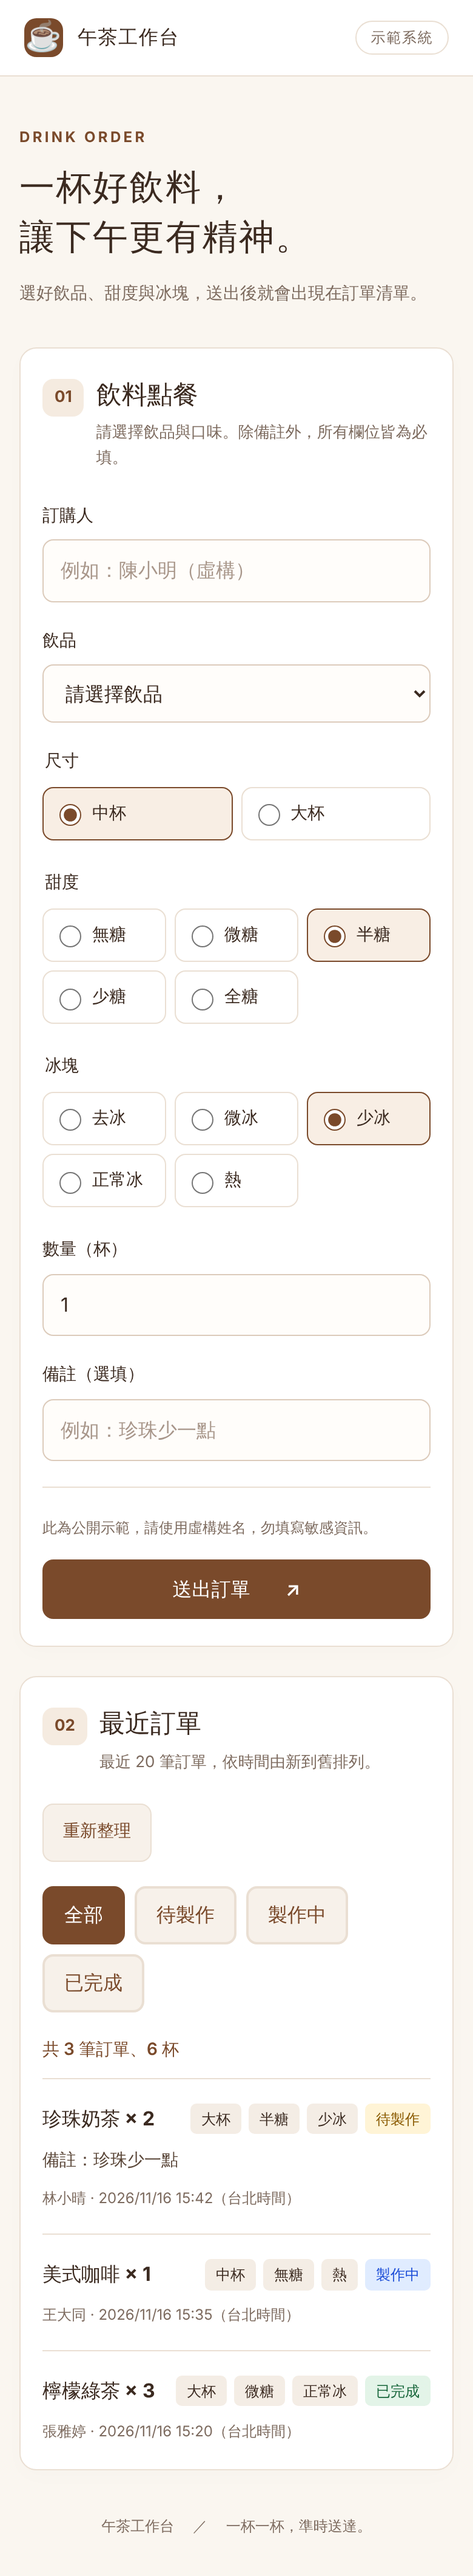
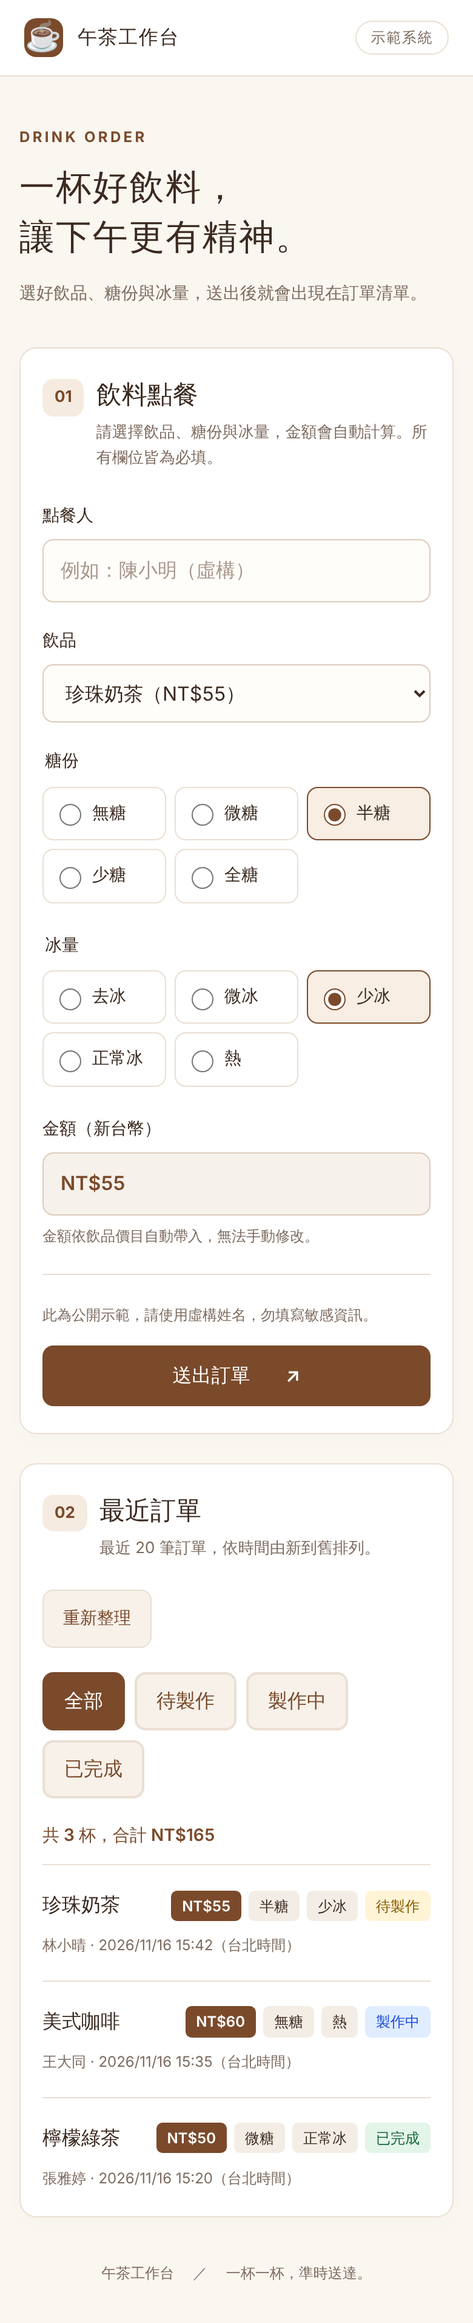
點餐表單改為點餐人、飲品、糖份、冰量、金額五欄
- 移除尺寸、數量、備註；金額依飲品價目自動帶入且不可修改
- 清單顯示每杯金額，並合計目前篩選的金額
- drink_orders 改為五個欄位，CHECK 確認飲品與金額相符
- 更新回歸測試、需求筆記、說明與預覽截圖

Claude-Session: https://claude.ai/code/session_01PMThZ8T3LDcZiV1NZyRfh1

diff --git a/index.html b/index.html
@@ -19,15 +19,14 @@
   <header class="topbar"><div class="brand"><span class="brand-icon" aria-hidden="true">☕</span>午茶工作台<span class="demo">示範系統</span></div></header>
   <main>
     <div class="pwa-tools"><button id="install-button" class="secondary" type="button" hidden>安裝點餐系統</button><p id="connection-message" class="message" role="status" hidden></p></div>
-    <div class="intro"><p class="eyebrow">DRINK ORDER</p><h1>一杯好飲料，<br>讓下午更有精神。</h1><p>選好飲品、甜度與冰塊，送出後就會出現在訂單清單。</p></div>
+    <div class="intro"><p class="eyebrow">DRINK ORDER</p><h1>一杯好飲料，<br>讓下午更有精神。</h1><p>選好飲品、糖份與冰量，送出後就會出現在訂單清單。</p></div>
     <section class="panel" aria-labelledby="form-title">
-      <div class="section-heading"><span class="step">01</span><div><h2 id="form-title">飲料點餐</h2><p>請選擇飲品與口味。除備註外，所有欄位皆為必填。</p></div></div>
+      <div class="section-heading"><span class="step">01</span><div><h2 id="form-title">飲料點餐</h2><p>請選擇飲品、糖份與冰量，金額會自動計算。所有欄位皆為必填。</p></div></div>
       <form id="order-form">
-        <div class="grid"><label>訂購人<input name="customer_name" autocomplete="name" required maxlength="100" placeholder="例如：陳小明（虛構）"></label><label>飲品<select name="drink" required><option value="" disabled selected>請選擇飲品</option><option>紅茶</option><option>綠茶</option><option>烏龍茶</option><option>奶茶</option><option>珍珠奶茶</option><option>檸檬綠茶</option><option>美式咖啡</option><option>拿鐵</option></select></label></div>
-        <fieldset><legend>尺寸</legend><div class="choice-options two"><label><input type="radio" name="size" value="中杯" required checked><span>中杯</span></label><label><input type="radio" name="size" value="大杯"><span>大杯</span></label></div></fieldset>
-        <fieldset><legend>甜度</legend><div class="choice-options five"><label><input type="radio" name="sugar" value="無糖" required><span>無糖</span></label><label><input type="radio" name="sugar" value="微糖"><span>微糖</span></label><label><input type="radio" name="sugar" value="半糖" checked><span>半糖</span></label><label><input type="radio" name="sugar" value="少糖"><span>少糖</span></label><label><input type="radio" name="sugar" value="全糖"><span>全糖</span></label></div></fieldset>
-        <fieldset><legend>冰塊</legend><div class="choice-options five"><label><input type="radio" name="ice" value="去冰" required><span>去冰</span></label><label><input type="radio" name="ice" value="微冰"><span>微冰</span></label><label><input type="radio" name="ice" value="少冰" checked><span>少冰</span></label><label><input type="radio" name="ice" value="正常冰"><span>正常冰</span></label><label><input type="radio" name="ice" value="熱"><span>熱</span></label></div></fieldset>
-        <div class="grid"><label>數量（杯）<input name="quantity" type="number" inputmode="numeric" required min="1" max="20" step="1" value="1"></label><label>備註（選填）<input name="note" maxlength="200" placeholder="例如：珍珠少一點"></label></div>
+        <div class="grid"><label>點餐人<input name="customer_name" autocomplete="name" required maxlength="100" placeholder="例如：陳小明（虛構）"></label><label>飲品<select name="drink" required><option value="" disabled selected>請選擇飲品</option><option value="紅茶">紅茶（NT$30）</option><option value="綠茶">綠茶（NT$30）</option><option value="烏龍茶">烏龍茶（NT$35）</option><option value="奶茶">奶茶（NT$45）</option><option value="珍珠奶茶">珍珠奶茶（NT$55）</option><option value="檸檬綠茶">檸檬綠茶（NT$50）</option><option value="美式咖啡">美式咖啡（NT$60）</option><option value="拿鐵">拿鐵（NT$70）</option></select></label></div>
+        <fieldset><legend>糖份</legend><div class="choice-options five"><label><input type="radio" name="sugar" value="無糖" required><span>無糖</span></label><label><input type="radio" name="sugar" value="微糖"><span>微糖</span></label><label><input type="radio" name="sugar" value="半糖" checked><span>半糖</span></label><label><input type="radio" name="sugar" value="少糖"><span>少糖</span></label><label><input type="radio" name="sugar" value="全糖"><span>全糖</span></label></div></fieldset>
+        <fieldset><legend>冰量</legend><div class="choice-options five"><label><input type="radio" name="ice" value="去冰" required><span>去冰</span></label><label><input type="radio" name="ice" value="微冰"><span>微冰</span></label><label><input type="radio" name="ice" value="少冰" checked><span>少冰</span></label><label><input type="radio" name="ice" value="正常冰"><span>正常冰</span></label><label><input type="radio" name="ice" value="熱"><span>熱</span></label></div></fieldset>
+        <label>金額（新台幣）<input name="amount" readonly tabindex="-1" placeholder="選擇飲品後自動帶入" aria-describedby="amount-hint"></label><p id="amount-hint" class="hint">金額依飲品價目自動帶入，無法手動修改。</p>
         <div class="form-footer"><p>此為公開示範，請使用虛構姓名，勿填寫敏感資訊。</p><button id="submit-button" type="submit">送出訂單 <span aria-hidden="true">↗</span></button></div>
         <p id="form-message" class="message" role="status" aria-live="polite" hidden></p>
       </form>

diff --git a/app.js b/app.js
@@ -9,6 +9,13 @@
   const list = document.querySelector('#order-list');
   const filterButtons = document.querySelectorAll('[data-status-filter]');
   const SUBMIT_LABEL = '送出訂單 ↗';
+  // 價目須與 supabase/schema.sql 的 drink_orders_price_check 一致（虛構價格）。
+  const PRICES = Object.freeze({ 紅茶: 30, 綠茶: 30, 烏龍茶: 35, 奶茶: 45, 珍珠奶茶: 55, 檸檬綠茶: 50, 美式咖啡: 60, 拿鐵: 70 });
+  const drinkSelect = form.elements.drink;
+  const amountInput = form.elements.amount;
+  const money = value => `NT$${Number(value).toLocaleString('zh-TW')}`;
+  const updateAmount = () => { amountInput.value = PRICES[drinkSelect.value] ? money(PRICES[drinkSelect.value]) : ''; };
+  drinkSelect.addEventListener('change', updateAmount);
   let orders = [];
   let selectedStatus = '全部';
   let hasLoaded = false;
@@ -41,19 +48,17 @@
     const cards = visibleOrders.map(order => {
       const card = element('li', 'order-card', '');
       const top = element('div', 'order-top', '');
-      top.append(element('h3', '', `${order.drink} × ${order.quantity}`),
-        element('span', 'badge', order.size),
+      top.append(element('h3', '', order.drink),
+        element('span', 'badge amount', money(order.amount)),
         element('span', 'badge', order.sugar),
         element('span', 'badge', order.ice),
         element('span', `badge status ${statusClass(order.status)}`, order.status));
-      card.append(top);
-      if (order.note) card.append(element('p', 'order-note', `備註：${order.note}`));
-      card.append(element('div', 'order-meta', `${order.customer_name} · ${formatTime(order.created_at)}`));
+      card.append(top, element('div', 'order-meta', `${order.customer_name} · ${formatTime(order.created_at)}`));
       return card;
     });
     list.replaceChildren(...cards);
-    const cups = visibleOrders.reduce((sum, order) => sum + (Number(order.quantity) || 0), 0);
-    cupTotal.textContent = `${selectedStatus === '全部' ? '' : `「${selectedStatus}」`}共 ${cards.length} 筆訂單、${cups} 杯`;
+    const total = visibleOrders.reduce((sum, order) => sum + (Number(order.amount) || 0), 0);
+    cupTotal.textContent = `${selectedStatus === '全部' ? '' : `「${selectedStatus}」`}共 ${cards.length} 杯，合計 ${money(total)}`;
     cupTotal.hidden = !cards.length;
     showMessage(listMessage, !navigator.onLine ? '目前離線，無法取得最新訂單。已顯示的紀錄僅保留於本次開啟的頁面。'
       : loading ? '正在載入訂單…'
@@ -82,7 +87,7 @@
     showMessage(listMessage, '正在載入訂單…');
     try {
       const { data, error } = await client.from('drink_orders')
-        .select('id,customer_name,drink,size,sugar,ice,quantity,note,status,created_at')
+        .select('id,customer_name,drink,sugar,ice,amount,status,created_at')
         .order('created_at', { ascending: false }).order('id', { ascending: false }).limit(20);
       if (error) throw error;
       orders = data || [];
@@ -106,20 +111,17 @@
     if (submitting || !client || !form.reportValidity()) return;
     const values = new FormData(form);
     const text = key => String(values.get(key) || '').trim();
-    const payload = Object.fromEntries(['customer_name', 'drink', 'size', 'sugar', 'ice']
+    const payload = Object.fromEntries(['customer_name', 'drink', 'sugar', 'ice']
       .map(key => [key, text(key)]));
     if (Object.values(payload).some(value => !value)) {
-      showMessage(formMessage, '請完整填寫必填欄位，內容不可只有空白。', 'error');
+      showMessage(formMessage, '請完整填寫所有欄位，內容不可只有空白。', 'error');
       return;
     }
-    const quantity = Number(text('quantity'));
-    if (!Number.isInteger(quantity) || quantity < 1 || quantity > 20) {
-      showMessage(formMessage, '數量須為 1 到 20 杯的整數。', 'error');
+    if (!PRICES[payload.drink]) {
+      showMessage(formMessage, '請從清單選擇飲品，才能計算金額。', 'error');
       return;
     }
-    payload.quantity = quantity;
-    const note = text('note');
-    if (note) payload.note = note;
+    payload.amount = PRICES[payload.drink];
     submitting = true;
     submitButton.disabled = true;
     submitButton.textContent = '正在送出…';
@@ -128,6 +130,7 @@
       const { error } = await client.from('drink_orders').insert(payload);
       if (error) throw error;
       form.reset();
+      updateAmount();
       showMessage(formMessage, '訂單已成功送出！飲料準備中，請留意清單狀態。', 'success');
       await loadOrders();
     } catch (error) {

diff --git a/style.css b/style.css
@@ -3,3 +3,4 @@
 .status-filters{display:flex;gap:8px;margin-bottom:20px;flex-wrap:wrap}.status-filters button{background:#f7f1ea;color:var(--green);border:2px solid var(--line);padding:8px 16px}.status-filters button[aria-pressed="true"]{background:var(--green);color:#fff;border-color:var(--green)}
 .pwa-tools:has(> :not([hidden])){margin-bottom:24px}.pwa-tools .message{margin:12px 0 0}
 .cup-total{font-size:14px;font-weight:600;color:var(--green);margin:0 0 12px}
+.hint{font-size:12px;color:var(--muted);margin:-14px 0 22px}input[readonly]{background:#f6f1eb;font-weight:600;color:var(--green)}.badge.amount{background:var(--green);color:#fff;font-weight:600}
